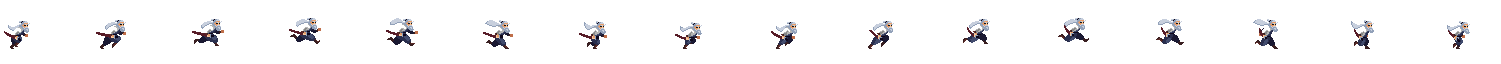
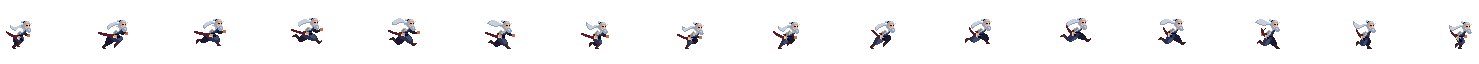
[dev] jump state !

diff --git a/mylib/src/state.cpp b/mylib/src/state.cpp
@@ -1,4 +1,6 @@
 #include "state.h"
+
+#include <iostream>
 #include <SFML/Graphics.hpp>
 
 #include "hero.h"
@@ -9,6 +11,14 @@ void IdleState::handleInput(Hero& hero)
 	if (sf::Keyboard::isKeyPressed(sf::Keyboard::D) 
 		|| sf::Keyboard::isKeyPressed(sf::Keyboard::Q))
 		hero.setState(HeroStateNames::stateName::run);
+
+	if (hero.isFacingLeft())
+		hero.getSprite().setScale(-2.f, 2.f);
+	else
+		hero.getSprite().setScale(2.f, 2.f);
+
+	if (sf::Keyboard::isKeyPressed(sf::Keyboard::Space))
+		hero.setState(HeroStateNames::stateName::jump);
 }
 
 void IdleState::update(Hero& hero, float deltaTime)
@@ -26,7 +36,6 @@ void IdleState::update(Hero& hero, float deltaTime)
 void IdleState::setTexture(Hero& hero)
 {
 	hero.getSprite().setTexture(hero.getTexture(HeroStateNames::stateName::idle));
-	hero.getSprite().setScale(2.f, 2.f);
 }
 
 // ATTACK STATE
@@ -49,10 +58,36 @@ void JumpState::handleInput(Hero& hero)
 
 void JumpState::update(Hero& hero, float deltaTime)
 {
+    float clampedDeltaTime = std::min(deltaTime, 0.1f);
+
+    m_verticalVelocity += m_gravity * clampedDeltaTime;
+
+    hero.move(sf::Vector2f(hero.getHorizontalVelocity() * clampedDeltaTime, m_verticalVelocity * clampedDeltaTime));
+
+    if (hero.getSprite().getPosition().y >= m_groundLevel)
+    {
+        hero.getSprite().setPosition(hero.getSprite().getPosition().x, m_groundLevel);
+
+        m_verticalVelocity = -250.f;
+
+        if (hero.getHorizontalVelocity() > 0.1f)
+            hero.setState(HeroStateNames::stateName::run);
+        else
+            hero.setState(HeroStateNames::stateName::idle);
+    }
+
+    if (m_elapsedTime.getElapsedTime().asSeconds() >= m_frameTime)
+    {
+        m_currentFrame = (m_currentFrame + 1) % m_frameCount;
+        m_elapsedTime.restart();
+        sf::IntRect currentFrameRect(m_currentFrame * m_frameWidth, 0, m_frameWidth, m_frameHeight);
+        hero.getSprite().setTextureRect(currentFrameRect);
+    }
 }
 
 void JumpState::setTexture(Hero& hero)
 {
+	hero.getSprite().setTexture(hero.getTexture(HeroStateNames::stateName::jump));
 }
 
 // BLOCK STATE
@@ -72,43 +107,60 @@ void BlockState::setTexture(Hero& hero)
 
 void RunState::handleInput(Hero& hero)
 {
-	if (!sf::Keyboard::isKeyPressed(sf::Keyboard::D) &&
-		!sf::Keyboard::isKeyPressed(sf::Keyboard::A))
-	{
-		hero.setState(HeroStateNames::stateName::idle);
-	}
+    bool goingRight = sf::Keyboard::isKeyPressed(sf::Keyboard::D);
+    bool goingLeft = sf::Keyboard::isKeyPressed(sf::Keyboard::Q);
+    bool jumping = sf::Keyboard::isKeyPressed(sf::Keyboard::Space);
+
+    if (!goingRight && !goingLeft || goingRight && goingLeft)
+        hero.setState(HeroStateNames::stateName::idle);
+    else if (jumping)
+    {
+        hero.setHorizontalVelocity(goingRight ? hero.getSpeed() : -hero.getSpeed());
+        hero.setState(HeroStateNames::stateName::jump);
+    }
+    else if (goingRight)
+        hero.setFacingLeft(false);
+    else if (goingLeft)
+        hero.setFacingLeft(true);
 }
 
 void RunState::update(Hero& hero, float deltaTime)
 {
-	sf::Vector2f position = hero.getSprite().getPosition();
+    handleInput(hero);
 
-	if (sf::Keyboard::isKeyPressed(sf::Keyboard::D))
+    if (hero.getCurrentState() == HeroStateNames::stateName::run) 
 	{
-		position.x += 4.f * deltaTime;
-	}
-	else if (sf::Keyboard::isKeyPressed(sf::Keyboard::A))
-	{
-		position.x -= 4.f * deltaTime;
-	}
+        bool goingRight = sf::Keyboard::isKeyPressed(sf::Keyboard::D);
+        bool goingLeft = sf::Keyboard::isKeyPressed(sf::Keyboard::Q);
 
-	hero.getSprite().setPosition(position);
+        float clampedDeltaTime = std::min(deltaTime, 0.1f);
 
-	// Animation
-	if (m_elapsedTime.getElapsedTime().asSeconds() >= m_frameTime)
-	{
-		m_currentFrame = (m_currentFrame + 1) % m_frameCount;
-		m_elapsedTime.restart();
+        if (goingRight && !goingLeft) 
+		{
+            hero.move(sf::Vector2f(hero.getSpeed() * clampedDeltaTime, 0));
+			hero.getSprite().setScale(2.f, 2.f);
+			hero.setFacingLeft(false);
+        }
+        else if (goingLeft && !goingRight) 
+		{
+            hero.move(sf::Vector2f(-hero.getSpeed() * clampedDeltaTime, 0));
+			hero.getSprite().setScale(-2.f, 2.f);
+			hero.setFacingLeft(true);
+        }
 
-		sf::IntRect frameRect(m_currentFrame * m_frameWidth, 0, m_frameWidth, m_frameHeight);
-		hero.getSprite().setTextureRect(frameRect);
-	}
+        if (m_elapsedTime.getElapsedTime().asSeconds() >= m_frameTime) 
+		{
+            m_currentFrame = (m_currentFrame + 1) % m_frameCount;
+            m_elapsedTime.restart();
+            sf::IntRect currentFrameRect(m_currentFrame * m_frameWidth, 0, m_frameWidth, m_frameHeight);
+            hero.getSprite().setTextureRect(currentFrameRect);
+        }
+    }
 }
 
 void RunState::setTexture(Hero& hero)
 {
 	hero.getSprite().setTexture(hero.getTexture(HeroStateNames::stateName::run));
-	hero.getSprite().setScale(2.f, 2.f);
 }
 
 // DODGE STATE

diff --git a/mylib/src/hero.cpp b/mylib/src/hero.cpp
@@ -4,11 +4,9 @@ Hero::Hero() : m_currentStateName(stateName::idle)
 {
     m_textures[stateName::idle].loadFromFile("C:\\Users\\guill\\source\\repos\\IAGame\\resources\\hero\\IDLE.png");
     m_textures[stateName::run].loadFromFile("C:\\Users\\guill\\source\\repos\\IAGame\\resources\\hero\\RUN.png");
+    m_textures[stateName::jump].loadFromFile("C:\\Users\\guill\\source\\repos\\IAGame\\resources\\hero\\JUMP.png");
 
-    //m_sprites.setTexture(m_textures[stateName::idle]);
-
-    //setState(stateName::idle);
-
+	m_sprites.setTexture(m_textures[stateName::idle]);
     m_sprites.setPosition(100, 900);
 }
 
@@ -34,6 +32,16 @@ bool Hero::isAttacking()
 bool Hero::isInvulnerable()
 {
     return false;
+}
+
+bool Hero::isFacingLeft() const
+{
+    return m_isFacingLeft;
+}
+
+bool Hero::isJumping() const
+{
+    return m_isJumping;
 }
 
 void Hero::takeDamage(int damage)
@@ -69,14 +77,52 @@ void Hero::update(float deltaTime)
     m_stateManager.update(*this, deltaTime);
 }
 
-void Hero::draw(sf::RenderWindow& window)
+void Hero::setSpeed(float speed)
 {
-	window.draw(m_sprites);
+    m_speed = speed;
 }
 
 int Hero::getHp()
 {
     return m_health;
+}
+
+float Hero::getSpeed() const
+{
+    return m_speed;
+}
+
+float Hero::getJumpVelocity() const
+{
+    return m_jumpVelocity;
+}
+
+sf::FloatRect Hero::getHitbox() const
+{
+    sf::FloatRect m_hitbox = m_sprites.getGlobalBounds();
+
+    float offsetX = m_hitbox.width * 0.4f;
+	float offsetY = m_hitbox.height * 0.35f;
+    float reducedWidth = m_hitbox.width - 2 * offsetX;
+	float reducedHeight = m_hitbox.height - 2 * offsetY;
+
+    return sf::FloatRect
+    (
+        m_hitbox.left + offsetX,
+        m_hitbox.top + offsetY,
+        reducedWidth,
+        reducedHeight
+    );
+}
+
+sf::Vector2f Hero::getPlayerPosition()
+{
+    return m_sprites.getPosition();
+}
+
+sf::Vector2f Hero::getPlayerCenter()
+{
+	return { getHitbox().left + getHitbox().width / 2.f, getHitbox().top + getHitbox().height / 2.f };
 }
 
 sf::Texture& Hero::getTexture(const stateName& stateName_)
@@ -90,4 +136,19 @@ sf::Texture& Hero::getTexture(const stateName& stateName_)
 sf::Sprite& Hero::getSprite()
 {
 	return m_sprites;
+}
+
+Hero::stateName Hero::getCurrentState() const
+{
+    return m_currentStateName;
+}
+
+void Hero::move(const sf::Vector2f& offset)
+{
+    m_sprites.move(offset);
+}
+
+void Hero::setFacingLeft(bool left)
+{
+    m_isFacingLeft = left;
 }

diff --git a/mylib/include/hero.h b/mylib/include/hero.h
@@ -29,6 +29,8 @@ public:
 	bool isShooting() override;
 	bool isAttacking() override;
 	bool isInvulnerable() override;
+	bool isFacingLeft() const;
+	bool isJumping() const;
 
 	// VOID METHOD
 	void takeDamage(int damage) override;
@@ -38,27 +40,45 @@ public:
 	void setState(stateName newState);
 	void handleInput();
 	void update(float deltaTime);
-	void draw(sf::RenderWindow& window);
-	int getHp() override;
+	void setSpeed(float speed);
+	void move(const sf::Vector2f& offset);
+	void setFacingLeft(bool left);
+
 
 	sf::Texture& getTexture(const stateName& stateName_);
 	sf::Sprite& getSprite();
+	stateName getCurrentState() const;
+
+
+	int getHp() override;
+	float getSpeed() const;
+	float getJumpVelocity() const;
 
 	friend class Game;
+
+	void setHorizontalVelocity(float velocity) { m_horizontalVelocity = velocity; }
+	float getHorizontalVelocity() const { return m_horizontalVelocity; }
+	sf::FloatRect getHitbox() const;
+	sf::Vector2f getPlayerPosition();
+	sf::Vector2f getPlayerCenter();
+
 private:
 	int m_health = 100;
 
 	bool m_isIdle;
 	bool m_isAttacking;
+	bool m_isFacingLeft = false;
+	float m_jumpVelocity = 0.f;
+	bool m_isJumping;
 
-	float m_speed = 200.f;
+	float m_speed = 70.f;
+	float m_horizontalVelocity = 0.f;
 
 	// GAMEPLAY
 	sf::Clock m_invulnerableClock;
 	sf::Clock m_blinkClock;
 	float m_invulnerableDuration;
 	bool m_isInvulnerable = false;
-	sf::FloatRect m_hitbox;
 
 	sf::Sprite m_sprites;
 	std::map<stateName, sf::Texture> m_textures;

diff --git a/mylib/include/state.h b/mylib/include/state.h
@@ -1,5 +1,5 @@
 #pragma once
-#include <SFML/System.hpp>
+#include <SFML/Graphics.hpp>
 
 class Hero;
 
@@ -51,11 +51,16 @@ public:
 	void setTexture(Hero& hero) override;
 
 protected:
-	sf::Vector2i m_frameSize;
-	int m_frameCount;
-	int m_currentFrame;
-	float m_frameTime;
-	float m_elapsedTime;
+	sf::Clock m_elapsedTime;
+	const float m_frameTime = 0.2f;
+	int m_currentFrame = 0;
+	const int m_frameCount = 3;
+	const int m_frameWidth = 96;
+	const int m_frameHeight = 64;
+
+	float m_verticalVelocity = -250.0f;
+	float m_gravity = 80.0f;
+	float m_groundLevel = 900.0f;
 };
 
 class BlockState : public IState
@@ -81,12 +86,12 @@ public:
 	void setTexture(Hero& hero) override;
 
 protected:
+	sf::Clock m_elapsedTime;
+	const float m_frameTime = 0.03f;
+	int m_currentFrame = 0;
+	const int m_frameCount = 16;
 	const int m_frameWidth = 96;
 	const int m_frameHeight = 64;
-	int m_frameCount = 16;
-	int m_currentFrame = 0;
-	float m_frameTime = 0.04f;
-	sf::Clock m_elapsedTime;
 };
 
 class DodgeState : public IState

diff --git a/mylib/src/game.cpp b/mylib/src/game.cpp
@@ -13,7 +13,7 @@ Game::Game(sf::RenderWindow* window, const float& framerate)
 
 void Game::setPlayer()
 {
-    m_player = Hero();
+    m_player.setState(Hero::stateName::idle);
 }
 
 void Game::setMapTexture(sf::RenderWindow* window)
@@ -76,6 +76,6 @@ void Game::render()
         return;
 
     m_renderWindow->draw(m_backgroundShape);
-    m_renderWindow->draw(m_player.getSprite());
     m_renderWindow->draw(m_rectangle_shape);
+    m_renderWindow->draw(m_player.getSprite());
 }

diff --git a/mylib/include/heroState.h b/mylib/include/heroState.h
@@ -19,7 +19,7 @@ public:
     using StateEnum = HeroStateNames::stateName;
 
     void setState(Hero* hero, HeroStateNames::stateName newState);
-    std::shared_ptr<IState> getCurrentState() const { return m_currentState; }
+    std::shared_ptr<IState> getCurrentState() const;
 
     void handleInput(Hero& hero);
     void update(Hero& hero, float deltaTime);

diff --git a/mylib/src/heroState.cpp b/mylib/src/heroState.cpp
@@ -30,6 +30,11 @@ void HeroState::setState(Hero* hero, HeroStateNames::stateName newState)
         m_currentState->setTexture(*hero);
 }
 
+std::shared_ptr<IState> HeroState::getCurrentState() const
+{
+    return m_currentState;
+}
+
 void HeroState::handleInput(Hero& hero)
 {
     if (m_currentState != nullptr)
